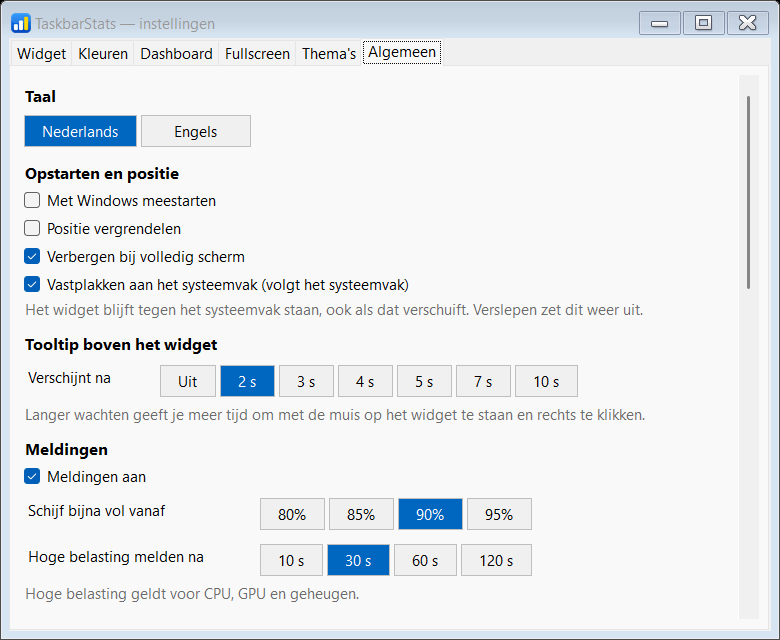
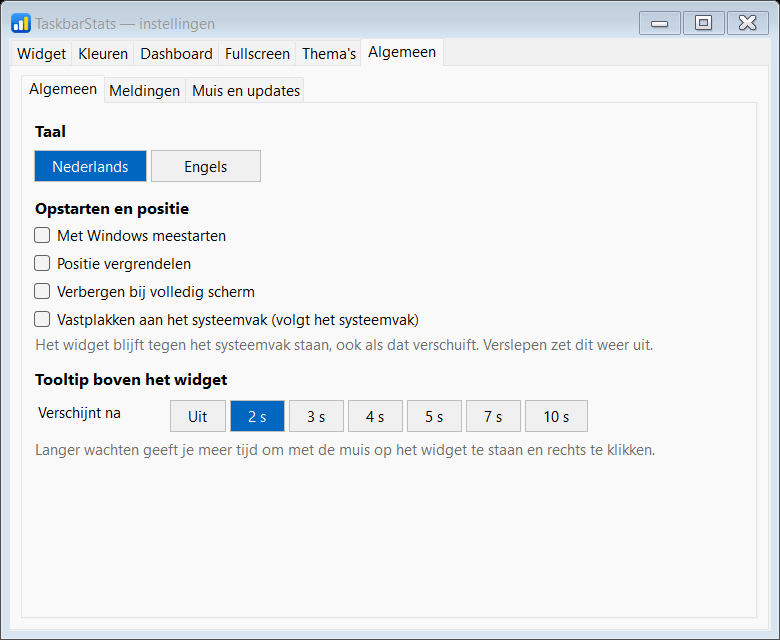
Instellingen: subtabs voor Dashboard, Fullscreen en Algemeen; uitleg bij uitgeschakelde opties; geavanceerde grafiekopties altijd bedienbaar

diff --git a/src/SettingsForm.cs b/src/SettingsForm.cs
@@ -68,6 +68,7 @@ public sealed partial class SettingsForm : Form
         _tabs.TabPages.Add(ThemesTab());
         _tabs.TabPages.Add(GeneralTab());
         _tabs.SelectedIndex = Math.Clamp(select, 0, _tabs.TabPages.Count - 1);
+        RestoreSubs();
         ResumeLayout();
         RunDeps();
         _snapshot = Snap();
@@ -294,7 +295,9 @@ public sealed partial class SettingsForm : Form
     // ---------- tabblad Algemeen ----------
     private TabPage GeneralTab()
     {
-        var p = Page(Loc.Pick("Algemeen", "General"), out var tab);
+        Page(Loc.Pick("Algemeen", "General"), out var tab);
+        var sub = Subs(tab, () => _generalSub, v => _generalSub = v);
+        var p = SubPage(sub, Loc.Pick("Algemeen", "General"));
 
         p.Controls.Add(Head(Loc.S("language")));
         p.Controls.Add(Seg(new (string, string)[] { (Loc.S("dutch"), "nl"), (Loc.S("english"), "en") }, () => _c.Language, v =>
@@ -325,9 +328,11 @@ public sealed partial class SettingsForm : Form
         p.Controls.Add(Note(Loc.Pick("Langer wachten geeft je meer tijd om met de muis op het widget te staan en rechts te klikken.",
                                      "A longer delay gives you more time to rest the mouse on the widget and right-click.")));
 
+        p = SubPage(sub, Loc.Pick("Meldingen", "Notifications"));
         p.Controls.Add(Head(Loc.Pick("Meldingen", "Notifications")));
         var notify = Check(Loc.Pick("Meldingen aan", "Notifications on"), _c.Notifications, v => _c.Notifications = v);
         p.Controls.Add(notify);
+        p.Controls.Add(Why(() => _c.Notifications ? null : Loc.Pick("Meldingen staan uit: de drempels hieronder doen niets tot je \"Meldingen aan\" aanvinkt.", "Notifications are off: the thresholds below do nothing until you tick \"Notifications on\".")));
         var diskFull = Seg(new (string, int)[] { ("80%", 80), ("85%", 85), ("90%", 90), ("95%", 95) }, () => _c.DiskFullPercent, v => _c.DiskFullPercent = v, 56);
         var critSecs = Seg(new (string, int)[] { ("10 s", 10), ("30 s", 30), ("60 s", 60), ("120 s", 120) }, () => _c.CritSeconds, v => _c.CritSeconds = v, 56);
         p.Controls.Add(Row(Loc.Pick("Schijf bijna vol vanaf", "Disk almost full at"), diskFull, 230));
@@ -344,6 +349,8 @@ public sealed partial class SettingsForm : Form
         log.Margin = new Padding(3, 6, 3, 3);
         log.Click += (_, _) => _h.ShowLog();
         p.Controls.Add(log);
+
+        p = SubPage(sub, Loc.Pick("Muis en updates", "Mouse and updates"));
         MouseSection(p);
         UpdateSection(p);
         return tab;
@@ -387,6 +394,7 @@ public sealed partial class SettingsForm : Form
         foreach (var l in Metrics.GetGpuLuids().Where(Metrics.IsRealGpu)) gpuItems.Add((Metrics.GpuName(l), l));
         var gpuSrc = Seg(gpuItems, () => _c.GpuLuid ?? "", v => _c.GpuLuid = v == "" ? null : v, 60);
         p.Controls.Add(Row(Loc.S("gpu"), gpuSrc));
+        p.Controls.Add(Why(() => _c.ShowGpu ? null : Loc.Pick("GPU staat uit: zet GPU aan bij Onderdelen.", "GPU is off: turn GPU on under Components.")));
 
         var cpuMode = Seg(new (string, bool)[]
         {
@@ -409,6 +417,7 @@ public sealed partial class SettingsForm : Form
             Changed();
         };
         p.Controls.Add(Row(Loc.S("netAdapter"), adapters));
+        p.Controls.Add(Why(() => _c.ShowNetUp || _c.ShowNetDown ? null : Loc.Pick("Upload en Download staan uit: zet er een aan bij Onderdelen.", "Upload and Download are off: turn one on under Components.")));
 
         var spaceMode = Seg(new (string, DiskSpaceMode)[]
         {
@@ -422,6 +431,7 @@ public sealed partial class SettingsForm : Form
         driveBox.SelectedIndex = Math.Max(0, driveBox.FindStringExact(_c.DiskSpaceDrive));
         driveBox.SelectedIndexChanged += (_, _) => { if (_building || driveBox.SelectedItem is not string dn) return; _c.DiskSpaceDrive = dn; Changed(); };
         p.Controls.Add(Row(Loc.Pick("Welke schijf", "Which drive"), driveBox));
+        p.Controls.Add(Why(() => _c.DiskSpace == DiskSpaceMode.Single ? null : Loc.Pick("Alleen bij Schijfruimte = \"Eén schijf\".", "Only when Disk space = \"One drive\".")));
         p.Controls.Add(Check(Loc.Pick("Netwerkschijven meenemen (ook in dashboard en fullscreen)", "Include network drives (also in dashboard and fullscreen)"),
                              _c.IncludeNetworkDrives, v => _c.IncludeNetworkDrives = v));
         var pingHost = new ComboBox { DropDownStyle = ComboBoxStyle.DropDown, Width = 200 };
@@ -436,6 +446,7 @@ public sealed partial class SettingsForm : Form
             Changed();
         };
         p.Controls.Add(Row(Loc.Pick("Ping-doel", "Ping target"), pingHost));
+        p.Controls.Add(Why(() => _c.ShowPing ? null : Loc.Pick("Ping staat uit: zet Ping aan bij Onderdelen.", "Ping is off: turn Ping on under Components.")));
         Dep(() =>
         {
             pingHost.Enabled = _c.ShowPing;
@@ -454,15 +465,23 @@ public sealed partial class SettingsForm : Form
         var cpuNote = Note(Loc.Pick("Bij \"per core\" toont de CPU altijd balkjes; de stijl hierboven telt dan niet mee.", "With \"per core\" the CPU always shows bars; the style above is not used."));
         p.Controls.Add(Row(Loc.S("cpu"), cpuStyle));
         p.Controls.Add(perCore);
+        p.Controls.Add(Why(() => _c.ShowCpu ? null : Loc.Pick("CPU staat uit: zet CPU aan bij Onderdelen.", "CPU is off: turn CPU on under Components.")));
         p.Controls.Add(cpuNote);
         p.Controls.Add(Row(Loc.S("gpu"), gpuStyle));
+        p.Controls.Add(Why(() => _c.ShowGpu ? null : Loc.Pick("GPU staat uit: zet GPU aan bij Onderdelen.", "GPU is off: turn GPU on under Components.")));
         p.Controls.Add(Row(Loc.S("memory"), memStyle));
+        p.Controls.Add(Why(() => _c.ShowMem ? null : Loc.Pick("Geheugen staat uit: zet Geheugen aan bij Onderdelen.", "Memory is off: turn Memory on under Components.")));
         var cpuTempStyle = Seg(styles, () => _c.CpuTempStyle, v => _c.CpuTempStyle = v);
         var gpuTempStyle = Seg(styles, () => _c.GpuTempStyle, v => _c.GpuTempStyle = v);
         p.Controls.Add(Row(Loc.S("cpuTemp"), cpuTempStyle));
+        p.Controls.Add(Why(() => !_c.ShowCpuTemp ? Loc.Pick("CPU-temperatuur staat uit: zet die aan bij Onderdelen.", "CPU temperature is off: turn it on under Components.")
+                               : _c.TempMerge && _c.ShowCpu ? Loc.Pick("Samengevoegd met de CPU-cel (zie het vinkje hieronder): de stijl van de CPU-cel geldt.", "Merged into the CPU cell (see the tick below): the CPU cell style applies.") : null));
         p.Controls.Add(Row(Loc.S("gpuTemp"), gpuTempStyle));
+        p.Controls.Add(Why(() => !_c.ShowGpuTemp ? Loc.Pick("GPU-temperatuur staat uit: zet die aan bij Onderdelen.", "GPU temperature is off: turn it on under Components.")
+                               : _c.TempMerge && _c.ShowGpu ? Loc.Pick("Samengevoegd met de GPU-cel (zie het vinkje hieronder): de stijl van de GPU-cel geldt.", "Merged into the GPU cell (see the tick below): the GPU cell style applies.") : null));
         var tempMerge = Check(Loc.Pick("Temperatuur klein achter de CPU-/GPU-cel (smaller)", "Temperature small after the CPU/GPU cell (narrower)"), _c.TempMerge, v => _c.TempMerge = v);
         p.Controls.Add(tempMerge);
+        p.Controls.Add(Why(() => _c.ShowCpuTemp || _c.ShowGpuTemp ? null : Loc.Pick("Zet CPU- of GPU-temperatuur aan bij Onderdelen.", "Turn on CPU or GPU temperature under Components.")));
         Dep(() =>
         {
             cpuTempStyle.Enabled = _c.ShowCpuTemp && !(_c.TempMerge && _c.ShowCpu);
@@ -477,6 +496,7 @@ public sealed partial class SettingsForm : Form
             (Loc.Pick("Uit", "Off"), BatteryPercentMode.Off),
         }, () => _c.BatteryPercent, v => _c.BatteryPercent = v);
         p.Controls.Add(Row(Loc.Pick("Batterij: percentage", "Battery: percentage"), batt));
+        p.Controls.Add(Why(() => _c.ShowBattery ? null : Loc.Pick("Batterij staat uit: zet Batterij aan bij Onderdelen.", "Battery is off: turn Battery on under Components.")));
 
         var labels = Check(Loc.Pick("Labels boven", "Labels above"), _c.LabelsAbove, v => _c.LabelsAbove = v, ColW);
         var compact = Check(Loc.Pick("Compact (kort en klein)", "Compact (short and small)"), _c.Compact, v =>
@@ -485,6 +505,7 @@ public sealed partial class SettingsForm : Form
             if (v) { _c.LabelsAbove = true; _building = true; labels.Checked = true; _building = false; }
         }, ColW);
         p.Controls.Add(Grid(labels, compact, Check(Loc.S("transparent"), _c.TransparentBackground, v => _c.TransparentBackground = v, ColW)));
+        p.Controls.Add(Why(() => _c.Compact ? Loc.Pick("Compact zet de labels altijd boven het getal.", "Compact always puts the labels above the value.") : null));
 
         p = SubPage(sub, Loc.Pick("Waarden", "Values"));
         AddValueSettings(p);
@@ -571,73 +592,72 @@ public sealed partial class SettingsForm : Form
     // ---------- tabblad Dashboard ----------
     private TabPage DashTab()
     {
-        var p = Page("Dashboard", out var tab);
-        var cols = new TableLayoutPanel { AutoSize = true, ColumnCount = 2, RowCount = 1 };
-        cols.ColumnStyles.Add(new ColumnStyle(SizeType.AutoSize));
-        cols.ColumnStyles.Add(new ColumnStyle(SizeType.AutoSize));
-        var left = new FlowLayoutPanel { AutoSize = true, FlowDirection = FlowDirection.TopDown, WrapContents = false, Margin = new Padding(0, 0, 24, 0) };
-        var right = new FlowLayoutPanel { AutoSize = true, FlowDirection = FlowDirection.TopDown, WrapContents = false };
+        Page("Dashboard", out var tab);
+        var sub = Subs(tab, () => _dashSub, v => _dashSub = v);
+        var p = SubPage(sub, Loc.Pick("Venster", "Window"));
 
-        left.Controls.Add(Head(Loc.Pick("Bureaublad-dashboard", "Desktop dashboard")));
-        left.Controls.Add(Check(Loc.Pick("Dashboard tonen", "Show dashboard"), _c.ShowDashboard, v => _c.ShowDashboard = v));
-        left.Controls.Add(Check(Loc.Pick("Klik-door (Ctrl+Alt+D)", "Click-through (Ctrl+Alt+D)"), _c.DashClickThrough, v => _c.DashClickThrough = v));
-        left.Controls.Add(Check(Loc.Pick("Positie vergrendelen", "Lock position"), _c.DashLocked, v => _c.DashLocked = v));
-        left.Controls.Add(Head(Loc.Pick("Positie", "Layer")));
-        left.Controls.Add(Seg(new (string, bool)[]
+        p.Controls.Add(Head(Loc.Pick("Bureaublad-dashboard", "Desktop dashboard")));
+        p.Controls.Add(Check(Loc.Pick("Dashboard tonen", "Show dashboard"), _c.ShowDashboard, v => _c.ShowDashboard = v));
+        p.Controls.Add(Check(Loc.Pick("Klik-door (Ctrl+Alt+D)", "Click-through (Ctrl+Alt+D)"), _c.DashClickThrough, v => _c.DashClickThrough = v));
+        p.Controls.Add(Check(Loc.Pick("Positie vergrendelen", "Lock position"), _c.DashLocked, v => _c.DashLocked = v));
+        p.Controls.Add(Head(Loc.Pick("Positie", "Layer")));
+        p.Controls.Add(Seg(new (string, bool)[]
         {
             (Loc.Pick("Achtergrond", "Background"), false),
             (Loc.Pick("Voorgrond", "In front"), true),
         }, () => _c.DashFront, v => _c.DashFront = v, 100));
-        left.Controls.Add(Head(Loc.Pick("Doorzichtigheid", "Opacity")));
-        left.Controls.Add(Slider(20, 100, 10, () => _c.DashOpacity, v => _c.DashOpacity = v, "%"));
-        left.Controls.Add(Head(Loc.Pick("Schaal", "Scale")));
-        left.Controls.Add(Slider(50, 300, 25, () => _c.DashScale, v => _c.DashScale = v, "%"));
-        left.Controls.Add(Head(Loc.Pick("Kolommen", "Columns")));
-        left.Controls.Add(Seg(new (string, int)[] { ("1", 1), ("2", 2), ("3", 3), ("4", 4) }, () => _c.DashColumns, v => _c.DashColumns = v, 48));
-        BgSection(left, () => _c.DashBgImage, v => _c.DashBgImage = v, () => _c.DashBgMode, v => _c.DashBgMode = v, () => _c.DashBgOpacity, v => _c.DashBgOpacity = v);
         var reset = Btn(Loc.Pick("Reset positie dashboard", "Reset dashboard position"), 170);
         reset.Margin = new Padding(0, 12, 0, 0);
         reset.Click += (_, _) => _h.ResetDash();
-        left.Controls.Add(reset);
+        p.Controls.Add(reset);
 
-        right.Controls.Add(Head(Loc.Pick("Onderdelen en volgorde", "Components and order")));
-        right.Controls.Add(Note(Loc.Pick("Vink aan of uit; verplaats met de knoppen.", "Tick to show or hide; move with the buttons."), 300));
-        right.Controls.Add(TileEditor(() => _c.DashOrder, v => _c.DashOrder = v, id => Tiles.DashOn(_c, id), (id, on) => Tiles.SetDashOn(_c, id, on)));
+        p = SubPage(sub, Loc.Pick("Uiterlijk", "Appearance"));
+        p.Controls.Add(Head(Loc.Pick("Doorzichtigheid", "Opacity")));
+        p.Controls.Add(Slider(20, 100, 10, () => _c.DashOpacity, v => _c.DashOpacity = v, "%"));
+        p.Controls.Add(Head(Loc.Pick("Schaal", "Scale")));
+        p.Controls.Add(Slider(50, 300, 25, () => _c.DashScale, v => _c.DashScale = v, "%"));
+        p.Controls.Add(Head(Loc.Pick("Kolommen", "Columns")));
+        p.Controls.Add(Seg(new (string, int)[] { ("1", 1), ("2", 2), ("3", 3), ("4", 4) }, () => _c.DashColumns, v => _c.DashColumns = v, 48));
+        BgSection(p, () => _c.DashBgImage, v => _c.DashBgImage = v, () => _c.DashBgMode, v => _c.DashBgMode = v, () => _c.DashBgOpacity, v => _c.DashBgOpacity = v);
 
-        cols.Controls.Add(left, 0, 0);
-        cols.Controls.Add(right, 1, 0);
-        p.Controls.Add(cols);
+        p = SubPage(sub, Loc.Pick("Onderdelen", "Components"));
+        p.Controls.Add(Head(Loc.Pick("Onderdelen en volgorde", "Components and order")));
+        p.Controls.Add(Note(Loc.Pick("Vink aan of uit; verplaats met de knoppen.", "Tick to show or hide; move with the buttons."), 300));
+        p.Controls.Add(TileEditor(() => _c.DashOrder, v => _c.DashOrder = v, id => Tiles.DashOn(_c, id), (id, on) => Tiles.SetDashOn(_c, id, on)));
         return tab;
     }
 
     // ---------- tabblad Fullscreen ----------
     private TabPage FullTab()
     {
-        var p = Page("Fullscreen", out var tab);
+        Page("Fullscreen", out var tab);
+        var sub = Subs(tab, () => _fullSub, v => _fullSub = v);
+        var p = SubPage(sub, Loc.Pick("Scherm en tour", "Screen and tour"));
+
+        p.Controls.Add(Head(Loc.Pick("Fullscreen dashboard (Ctrl+Alt+F)", "Fullscreen dashboard (Ctrl+Alt+F)")));
+        p.Controls.Add(Note(Loc.Pick("Open het scherm met Ctrl+Alt+F om het effect te zien; het past zich aan het aantal onderdelen aan.",
+                                     "Open the screen with Ctrl+Alt+F to see the effect; it adapts to the number of components."), 520));
+        var screens = new List<(string, string?)> { (Loc.Pick("Automatisch (waar het widget staat)", "Automatic (where the widget is)"), null) };
+        foreach (var sc in Screen.AllScreens)
+            screens.Add(($"{sc.DeviceName.TrimStart('\\', '.')}  {sc.Bounds.Width}×{sc.Bounds.Height}{(sc.Primary ? " *" : "")}", sc.DeviceName));
+        p.Controls.Add(Head(Loc.Pick("Scherm", "Display")));
+        var cb = new ComboBox { DropDownStyle = ComboBoxStyle.DropDownList, Width = 260 };
+        foreach (var s in screens) cb.Items.Add(s.Item1);
+        cb.SelectedIndex = Math.Max(0, screens.FindIndex(s => s.Item2 == _c.FullMonitor));
+        cb.SelectedIndexChanged += (_, _) => { if (_building || cb.SelectedIndex < 0) return; _c.FullMonitor = screens[cb.SelectedIndex].Item2; Changed(); };
+        p.Controls.Add(cb);
+        p.Controls.Add(Head(Loc.Pick("Automatische tour", "Automatic tour")));
+        p.Controls.Add(Note(Loc.Pick("Klik 3× op een lege plek in het fullscreen-scherm (of druk op de spatiebalk) om alle pagina's af te lopen. Tijd per pagina:",
+                                     "Click 3 times on an empty spot in the fullscreen screen (or press the space bar) to step through all pages. Time per page:"), 520));
+        p.Controls.Add(Seg(new (string, int)[] { ("5 s", 5), ("10 s", 10), ("15 s", 15), ("20 s", 20), ("30 s", 30), ("60 s", 60) },
+                           () => _c.TourSeconds, v => _c.TourSeconds = v, 44));
+
+        p = SubPage(sub, Loc.Pick("Onderdelen en indeling", "Components and layout"));
         var cols = new TableLayoutPanel { AutoSize = true, ColumnCount = 2, RowCount = 1 };
         cols.ColumnStyles.Add(new ColumnStyle(SizeType.AutoSize));
         cols.ColumnStyles.Add(new ColumnStyle(SizeType.AutoSize));
         var left = new FlowLayoutPanel { AutoSize = true, FlowDirection = FlowDirection.TopDown, WrapContents = false, Margin = new Padding(0, 0, 24, 0) };
         var right = new FlowLayoutPanel { AutoSize = true, FlowDirection = FlowDirection.TopDown, WrapContents = false };
-
-        left.Controls.Add(Head(Loc.Pick("Fullscreen dashboard (Ctrl+Alt+F)", "Fullscreen dashboard (Ctrl+Alt+F)")));
-        left.Controls.Add(Note(Loc.Pick("Open het scherm met Ctrl+Alt+F om het effect te zien; het past zich aan het aantal onderdelen aan.",
-                                        "Open the screen with Ctrl+Alt+F to see the effect; it adapts to the number of components."), 260));
-        var screens = new List<(string, string?)> { (Loc.Pick("Automatisch (waar het widget staat)", "Automatic (where the widget is)"), null) };
-        foreach (var sc in Screen.AllScreens)
-            screens.Add(($"{sc.DeviceName.TrimStart('\\', '.')}  {sc.Bounds.Width}×{sc.Bounds.Height}{(sc.Primary ? " *" : "")}", sc.DeviceName));
-        left.Controls.Add(Head(Loc.Pick("Automatische tour", "Automatic tour")));
-        left.Controls.Add(Note(Loc.Pick("Klik 3× op een lege plek in het fullscreen-scherm (of druk op de spatiebalk) om alle pagina's af te lopen. Tijd per pagina:",
-                                        "Click 3 times on an empty spot in the fullscreen screen (or press the space bar) to step through all pages. Time per page:"), 260));
-        left.Controls.Add(Seg(new (string, int)[] { ("5 s", 5), ("10 s", 10), ("15 s", 15), ("20 s", 20), ("30 s", 30), ("60 s", 60) },
-                              () => _c.TourSeconds, v => _c.TourSeconds = v, 44));
-        left.Controls.Add(Head(Loc.Pick("Scherm", "Display")));
-        var cb = new ComboBox { DropDownStyle = ComboBoxStyle.DropDownList, Width = 260 };
-        foreach (var s in screens) cb.Items.Add(s.Item1);
-        cb.SelectedIndex = Math.Max(0, screens.FindIndex(s => s.Item2 == _c.FullMonitor));
-        cb.SelectedIndexChanged += (_, _) => { if (_building || cb.SelectedIndex < 0) return; _c.FullMonitor = screens[cb.SelectedIndex].Item2; Changed(); };
-        left.Controls.Add(cb);
-        BgSection(left, () => _c.FullBgImage, v => _c.FullBgImage = v, () => _c.FullBgMode, v => _c.FullBgMode = v, () => _c.FullBgOpacity, v => _c.FullBgOpacity = v);
 
         // Miniatuur van de indeling, zodat je de volgorde meteen ziet zonder het scherm te openen.
         left.Controls.Add(Head(Loc.Pick("Voorbeeld van de indeling", "Layout preview")));
@@ -669,6 +689,9 @@ public sealed partial class SettingsForm : Form
         cols.Controls.Add(left, 0, 0);
         cols.Controls.Add(right, 1, 0);
         p.Controls.Add(cols);
+
+        p = SubPage(sub, Loc.Pick("Achtergrond", "Background"));
+        BgSection(p, () => _c.FullBgImage, v => _c.FullBgImage = v, () => _c.FullBgMode, v => _c.FullBgMode = v, () => _c.FullBgOpacity, v => _c.FullBgOpacity = v);
         return tab;
     }
 

diff --git a/src/SettingsForm.Graph.cs b/src/SettingsForm.Graph.cs
@@ -3,6 +3,15 @@ namespace TaskbarStats;
 // Instellingen voor de mini-grafiek in het widget (uitbreiding van het gedeelte "Weergave" op tabblad Widget).
 public sealed partial class SettingsForm
 {
+    private bool AnyGraph() =>
+        _c.ShowCpu && !_c.CpuPerCore && _c.CpuStyle == DisplayStyle.Graph
+        || _c.ShowGpu && _c.GpuStyle == DisplayStyle.Graph
+        || _c.ShowMem && _c.MemStyle == DisplayStyle.Graph
+        || _c.ShowCpuTemp && !(_c.TempMerge && _c.ShowCpu) && _c.CpuTempStyle == DisplayStyle.Graph
+        || _c.ShowGpuTemp && !(_c.TempMerge && _c.ShowGpu) && _c.GpuTempStyle == DisplayStyle.Graph
+        || (_c.ShowNetUp || _c.ShowNetDown) && _c.NetStyle == TextGraphStyle.Graph
+        || _c.ShowPing && _c.PingStyle == TextGraphStyle.Graph;
+
     // Geeft de geavanceerde rijen (lengte, periode, schaal) terug; die staan op het subtabblad Geavanceerd.
     private List<Control> GraphSettings(FlowLayoutPanel p)
     {
@@ -16,8 +25,11 @@ public sealed partial class SettingsForm
             (Loc.Pick("Automatisch", "Automatic"), 0), ("1 MB/s", 1), ("10 MB/s", 10), ("100 MB/s", 100),
         }, () => _c.NetGraphMaxMBps, v => _c.NetGraphMaxMBps = v, 56);
         p.Controls.Add(Row(Loc.Pick("Netwerk", "Network"), netStyle));
+        p.Controls.Add(Why(() => _c.ShowNetUp || _c.ShowNetDown ? null : Loc.Pick("Upload en Download staan uit: zet er een aan bij Onderdelen.", "Upload and Download are off: turn one on under Components.")));
+        adv.Add(Why(() => AnyGraph() ? null : Loc.Pick("Nog geen onderdeel heeft de stijl Grafiek (subtab Weergave). Je kunt dit alvast instellen; het werkt zodra een onderdeel een grafiek toont.", "No item uses the Graph style yet (Display subtab). You can set this already; it applies as soon as an item shows a graph.")));
         adv.Add(Row(Loc.Pick("Netwerkgrafiek: schaal", "Network graph: scale"), netMax));
         p.Controls.Add(Row("Ping", pingStyle));
+        p.Controls.Add(Why(() => _c.ShowPing ? null : Loc.Pick("Ping staat uit: zet Ping aan bij Onderdelen.", "Ping is off: turn Ping on under Components.")));
         var len = Seg(new (string, GraphLen)[]
         {
             (Loc.Pick("Kort", "Short"), GraphLen.Short), (Loc.Pick("Middel", "Medium"), GraphLen.Medium), (Loc.Pick("Lang", "Long"), GraphLen.Long),
@@ -28,15 +40,6 @@ public sealed partial class SettingsForm
         {
             netStyle.Enabled = _c.ShowNetUp || _c.ShowNetDown;
             pingStyle.Enabled = _c.ShowPing;
-            netMax.Enabled = netStyle.Enabled && _c.NetStyle == TextGraphStyle.Graph;
-            bool cpu = _c.ShowCpu && !_c.CpuPerCore && _c.CpuStyle == DisplayStyle.Graph;
-            bool gpu = _c.ShowGpu && _c.GpuStyle == DisplayStyle.Graph;
-            bool mem = _c.ShowMem && _c.MemStyle == DisplayStyle.Graph;
-            bool ct = _c.ShowCpuTemp && !(_c.TempMerge && _c.ShowCpu) && _c.CpuTempStyle == DisplayStyle.Graph;
-            bool gt = _c.ShowGpuTemp && !(_c.TempMerge && _c.ShowGpu) && _c.GpuTempStyle == DisplayStyle.Graph;
-            bool net = netStyle.Enabled && _c.NetStyle == TextGraphStyle.Graph;
-            bool ping = _c.ShowPing && _c.PingStyle == TextGraphStyle.Graph;
-            secs.Enabled = len.Enabled = cpu || gpu || mem || ct || gt || net || ping;
         });
         return adv;
     }

diff --git a/src/SettingsForm.Fmt.cs b/src/SettingsForm.Fmt.cs
@@ -31,6 +31,7 @@ public sealed partial class SettingsForm
             (Loc.Pick("Bytes (MB/s)", "Bytes (MB/s)"), RateUnitKind.Bytes), (Loc.Pick("Bits (Mb/s)", "Bits (Mb/s)"), RateUnitKind.Bits),
         }, () => _c.NetUnit, v => _c.NetUnit = v, 110);
         p.Controls.Add(Row(Loc.Pick("Netwerk-eenheid", "Network unit"), unit));
+        p.Controls.Add(Why(() => _c.ShowNetUp || _c.ShowNetDown ? null : Loc.Pick("Upload en Download staan uit: zet er een aan bij Onderdelen.", "Upload and Download are off: turn one on under Components.")));
 
         var scale = Seg(new (string, RateScale)[]
         {
@@ -44,16 +45,20 @@ public sealed partial class SettingsForm
             (Loc.Pick("Beschikbaar (GB)", "Available (GB)"), MemShowMode.Available),
         }, () => _c.MemShow, v => _c.MemShow = v, 110);
         p.Controls.Add(Row(Loc.Pick("Geheugen (digitaal)", "Memory (digital)"), mem));
+        p.Controls.Add(Why(() => !_c.ShowMem ? Loc.Pick("Geheugen staat uit: zet Geheugen aan bij Onderdelen.", "Memory is off: turn Memory on under Components.")
+                               : _c.MemStyle != DisplayStyle.Digital ? Loc.Pick("Alleen bij de weergavestijl Digitaal. Nu staat Geheugen op meter, balk of grafiek (subtab Weergave); zet daar Geheugen op Digitaal.", "Only for the Digital display style. Memory is now a gauge, bar or graph (Display subtab); set Memory to Digital there.") : null));
 
         var busyStyle = Seg(new (string, DisplayStyle)[] { (Loc.S("digital"), DisplayStyle.Digital), (Loc.S("gauge"), DisplayStyle.Gauge), (Loc.S("bar"), DisplayStyle.Bar) },
                             () => _c.DiskBusyStyle, v => _c.DiskBusyStyle = v);
         p.Controls.Add(Row(Loc.Pick("Schijf actief: stijl", "Disk active: style"), busyStyle));
+        p.Controls.Add(Why(() => _c.ShowDiskBusy ? null : Loc.Pick("\"Schijf actief (%)\" staat uit: zet het aan bij Onderdelen.", "\"Disk active (%)\" is off: turn it on under Components.")));
 
         var shortV = Check(Loc.Pick("Korte waarden (minder decimalen)", "Short values (fewer decimals)"), _c.ShortValues, v => _c.ShortValues = v, ColW * 2);
         var hideUnit = Check(Loc.Pick("Eenheid weglaten (MB/s, GB, GHz)", "Hide the unit (MB/s, GB, GHz)"), _c.HideUnit, v => _c.HideUnit = v, ColW * 2);
         var hidePct = Check(Loc.Pick("%-teken weglaten", "Hide the % sign"), _c.HidePercent, v => _c.HidePercent = v, ColW * 2);
         var swap = Check(Loc.Pick("Upload en download omwisselen (download boven)", "Swap upload and download (download on top)"), _c.SwapNet, v => _c.SwapNet = v, ColW * 2);
         p.Controls.Add(Grid(shortV, hideUnit, hidePct, swap));
+        p.Controls.Add(Why(() => _c.ShowNetUp && _c.ShowNetDown ? null : Loc.Pick("Omwisselen kan alleen als Upload én Download aan staan (Onderdelen).", "Swapping needs both Upload and Download turned on (Components).")));
 
         Dep(() =>
         {

diff --git a/src/SettingsForm.Sub.cs b/src/SettingsForm.Sub.cs
@@ -3,6 +3,37 @@ namespace TaskbarStats;
 // Hulp voor subtabbladen (het tabblad Widget is verdeeld in Onderdelen, Bronnen, Weergave, Waarden en Uiterlijk).
 public sealed partial class SettingsForm
 {
+    private int _dashSub, _fullSub, _generalSub;
+    private readonly List<Action> _subRestore = new();
+
+    /// <summary>Subtabbladen in een tabblad; het gekozen subtabblad blijft onthouden als het venster opnieuw wordt opgebouwd.</summary>
+    private TabControl Subs(TabPage tab, Func<int> get, Action<int> set)
+    {
+        var sub = new TabControl { Dock = DockStyle.Fill };
+        tab.Controls.Clear();
+        tab.Controls.Add(sub);
+        _subRestore.Add(() =>
+        {
+            sub.SelectedIndex = Math.Clamp(get(), 0, Math.Max(0, sub.TabPages.Count - 1));
+            sub.SelectedIndexChanged += (_, _) => { if (!_building) set(sub.SelectedIndex); };
+        });
+        return sub;
+    }
+    private void RestoreSubs() { foreach (var a in _subRestore) a(); _subRestore.Clear(); }
+
+    /// <summary>Grijze uitleg onder een bedieningselement: zichtbaar zolang de functie een reden geeft waarom het niets doet.</summary>
+    private Label Why(Func<string?> reason)
+    {
+        var l = new Label { AutoSize = true, MaximumSize = new Size(640, 0), ForeColor = Color.FromArgb(176, 96, 0), Margin = new Padding(3, 0, 0, 6), Visible = false };
+        Dep(() =>
+        {
+            string? r = reason();
+            l.Visible = r != null;
+            if (r != null) l.Text = "\u2192 " + r;
+        });
+        return l;
+    }
+
     private int _widgetSub;   // onthoudt het gekozen subtabblad als het venster opnieuw wordt opgebouwd
 
     private static FlowLayoutPanel SubPage(TabControl host, string title)

diff --git a/src/SettingsForm.WinTheme.cs b/src/SettingsForm.WinTheme.cs
@@ -15,6 +15,9 @@ public sealed partial class SettingsForm
         p.Controls.Add(Note(Loc.Pick(
             "Bij volgen zijn achtergrond en tekst automatisch (donker of licht, met goed contrast) en tellen de eigen velden Tekst en Achtergrond niet mee; bij \"+ accent\" ook Meter/balk niet. Drempelkleuren blijven. Geldt alleen voor het widget.",
             "When following, background and text are automatic (dark or light, with good contrast) and your own Text and Background fields are ignored; with \"+ accent\" so is Meter/bar. Threshold colors stay. Applies to the widget only.")));
+        p.Controls.Add(Why(() => _c.WidgetFollowWindows == WinThemeMode.Off ? null
+            : Loc.Pick("Tekst en Achtergrond hieronder zijn uitgeschakeld: het Windows-thema bepaalt ze" + (_c.WidgetFollowWindows == WinThemeMode.DarkLightAccent ? ", en ook Meter/balk." : ". Zet het volgen uit om ze zelf te kiezen."),
+                       "Text and Background below are disabled: the Windows theme decides them" + (_c.WidgetFollowWindows == WinThemeMode.DarkLightAccent ? ", and Meter/bar too." : ". Turn following off to pick your own."))));
         Dep(() =>
         {
             text.Enabled = background.Enabled = _c.WidgetFollowWindows == WinThemeMode.Off;

diff --git a/CLAUDE.md b/CLAUDE.md
@@ -98,7 +98,7 @@ Ctrl+Alt+F (fullscreen). Widget verbergt zichzelf bij fullscreen (instelling `Hi
 
 ## Ideeën / nog te doen
 
-- Na 1.4.0: instellingen Widget hebben subtabs (`SettingsForm.Sub.cs`: Onderdelen/Bronnen/Weergave/Waarden/Uiterlijk), grafieklengte (`GraphLength`), welkomstscherm uit het menu (knop in Over), en `StickToTray` (vervangt "Reset positie"; `WidgetForm.Stick.cs`, `FollowTray` in `Tick`, verslepen zet het uit, nieuwe installaties starten vastgeplakt). Testharnas: een timer die met `Application.DoEvents()` in een stap zit kan zichzelf re-entrant starten (stappen lopen dan door elkaar).
+- Na 1.4.0: instellingen Widget hebben subtabs (`SettingsForm.Sub.cs`: Onderdelen/Bronnen/Weergave/Waarden/Uiterlijk/Geavanceerd; ook Dashboard/Fullscreen/Algemeen hebben subtabs via `Subs()`; uitgeschakelde opties krijgen een oranje uitleg met `Why(() => reden)` onder de rij), grafieklengte (`GraphLength`), welkomstscherm uit het menu (knop in Over), en `StickToTray` (vervangt "Reset positie"; `WidgetForm.Stick.cs`, `FollowTray` in `Tick`, verslepen zet het uit, nieuwe installaties starten vastgeplakt). Testharnas: een timer die met `Application.DoEvents()` in een stap zit kan zichzelf re-entrant starten (stappen lopen dan door elkaar).
 - **v1.4.0** (gebouwd door vijf parallelle agents in worktrees, daarna gemerged): waardeopmaak, extra items, grafiekstijl, achtergrondafbeelding, Windows-thema volgen, muisacties/klik-door, extra meldingen (incl. schijftemperatuur), updatecontrole. Testharnas-ankers: `ActionsOnShown();` (was `SyncDashboard();`) in de OnShown-hook van de patchscripts. Niet gebouwd (bewust): per-item kleur/label, tray-waarden, taakbalk-embedden, plugins, Lite/portable, kleinere installer.
 - **v1.3.0 is gepubliceerd**: specificatiepagina (toets I), fullscreen-tour (3× klikken op leeg of spatie; `TourSeconds`, ook in het menu), ping (`ShowPing`, `PingHost`), CPU-temperatuur via ACPI-terugval, temperatuurstijl/-samenvoegen (`CpuTempStyle`, `GpuTempStyle`, `TempMerge`), aftiteling bij Leesmij en credits.
 - Tegels slepen i.p.v. pijlknoppen; thema per situatie automatisch (bv. op batterij); controle op nieuwe versie via GitHub-releases; ping-/uptime-tegel.

diff --git a/README.md b/README.md
@@ -131,7 +131,7 @@ bij loslaten bewaard); in de instellingen (tab Algemeen) en in het menu staat "V
 
 - **Instellingen…** (vet, bovenaan) opent het instellingenvenster met tabbladen. Elke wijziging wordt direct toegepast en bewaard;
   bedieningselementen die door een andere keuze geen effect hebben, worden uitgeschakeld:
-  - *Widget*: onderdelen (CPU, GPU, geheugen, up-/download, batterij, schijf, temperaturen) met hun **bronnen** (welke GPU of automatisch, welke Het tabblad is verdeeld in subtabs: *Onderdelen*, *Bronnen*, *Weergave*, *Waarden*, *Uiterlijk* en *Geavanceerd* (lengte en periode van de grafiek, netwerkgrafiek-schaal, CPU-meting en verversnelheid).
+  - *Widget*: onderdelen (CPU, GPU, geheugen, up-/download, batterij, schijf, temperaturen) met hun **bronnen** (welke GPU of automatisch, welke Het tabblad is verdeeld in subtabs: *Onderdelen*, *Bronnen*, *Weergave*, *Waarden*, *Uiterlijk* en *Geavanceerd* (lengte en periode van de grafiek, netwerkgrafiek-schaal, CPU-meting en verversnelheid). Ook *Dashboard*, *Fullscreen* en *Algemeen* hebben subtabs. Opties die (nog) niets doen, zijn grijs met een oranje uitleg erbij, bijvoorbeeld "Geheugen (digitaal)" werkt alleen als Geheugen de stijl Digitaal heeft.
     netwerkadapter of alle, schijfruimte uit/totaal/alle apart/één schijf, netwerkschijven meenemen), weergave per onderdeel (digitaal, meter of balk;
     CPU per core), batterijpercentage, labels boven, compact, transparant, hoogte, lettertype/-grootte en ververssnelheid.
     De **volgorde van de onderdelen in het widget** (netwerk, schijf-I/O, CPU, GPU, geheugen, batterij, schijfruimte, temperaturen) stel je in met de pijlknoppen; uitgeschakelde onderdelen staan er met "(uit)" bij. De volgorde zit ook in thema's.
